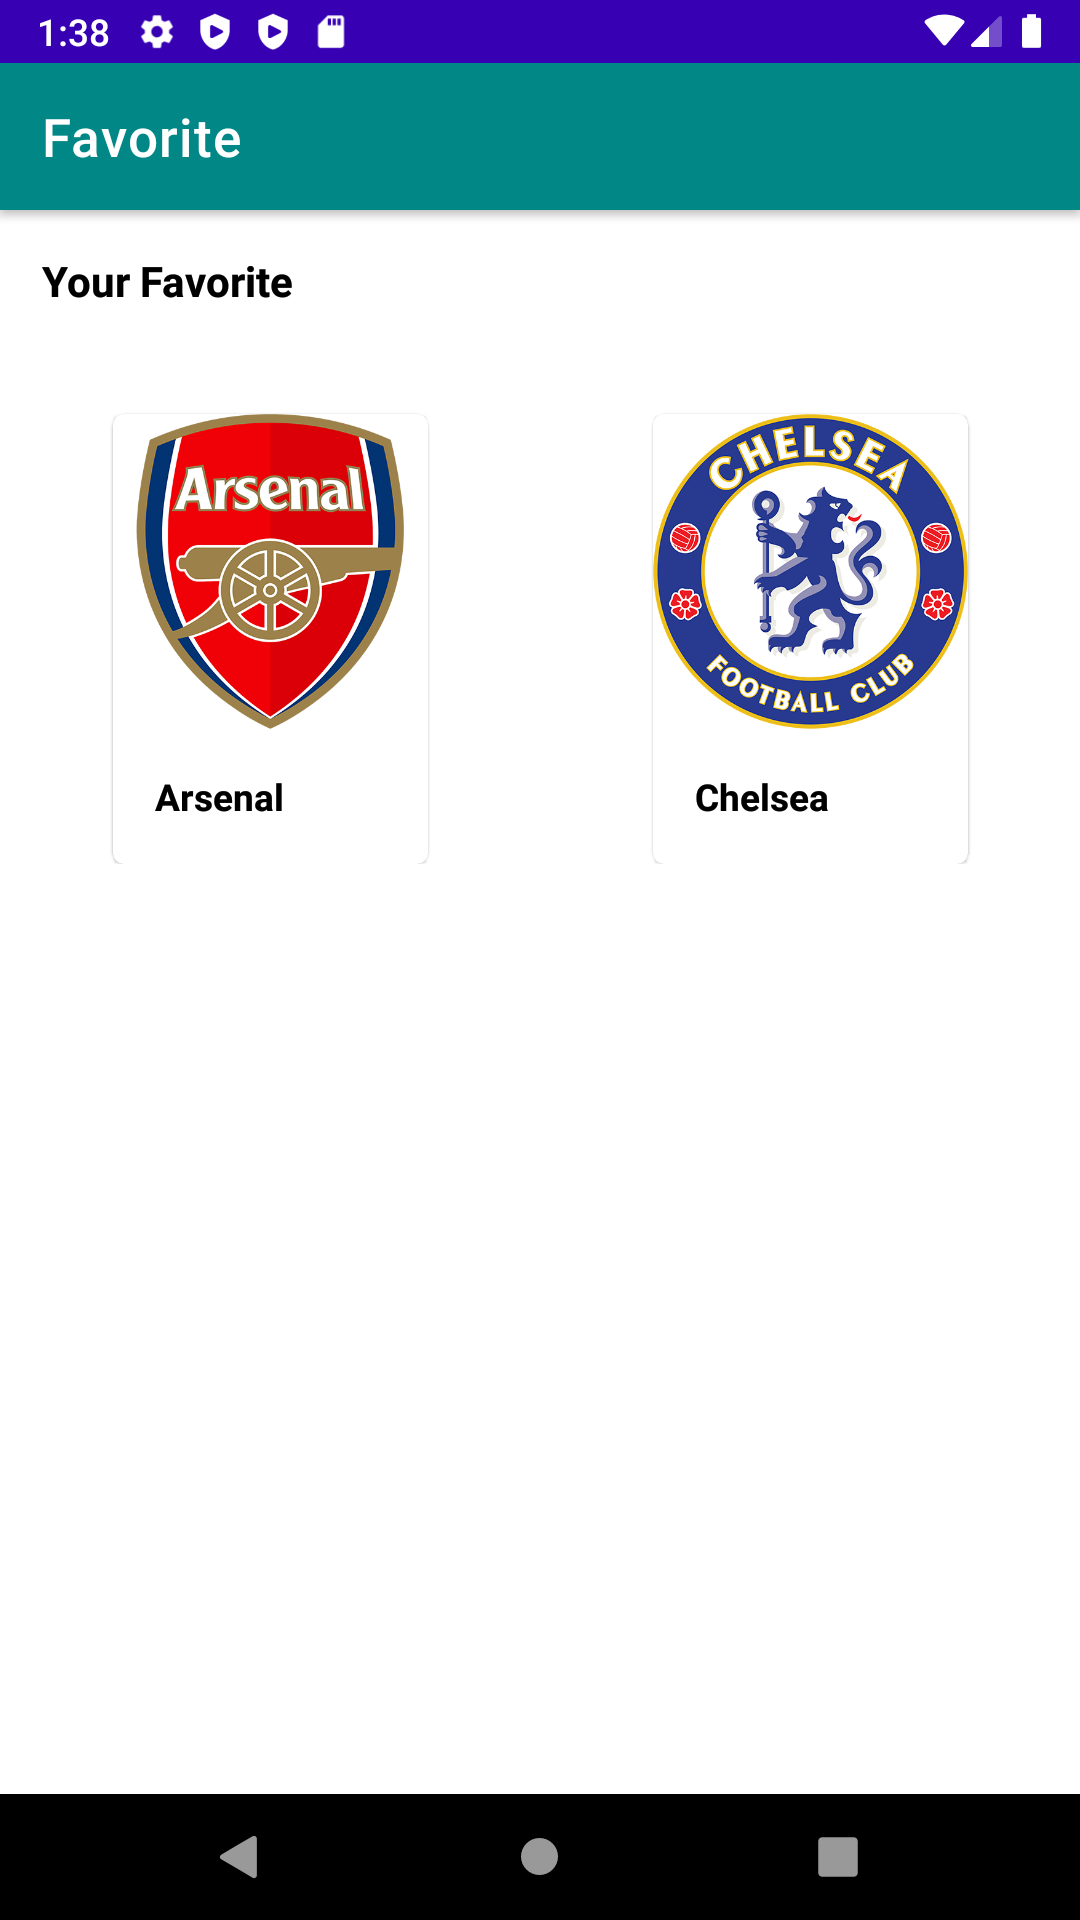
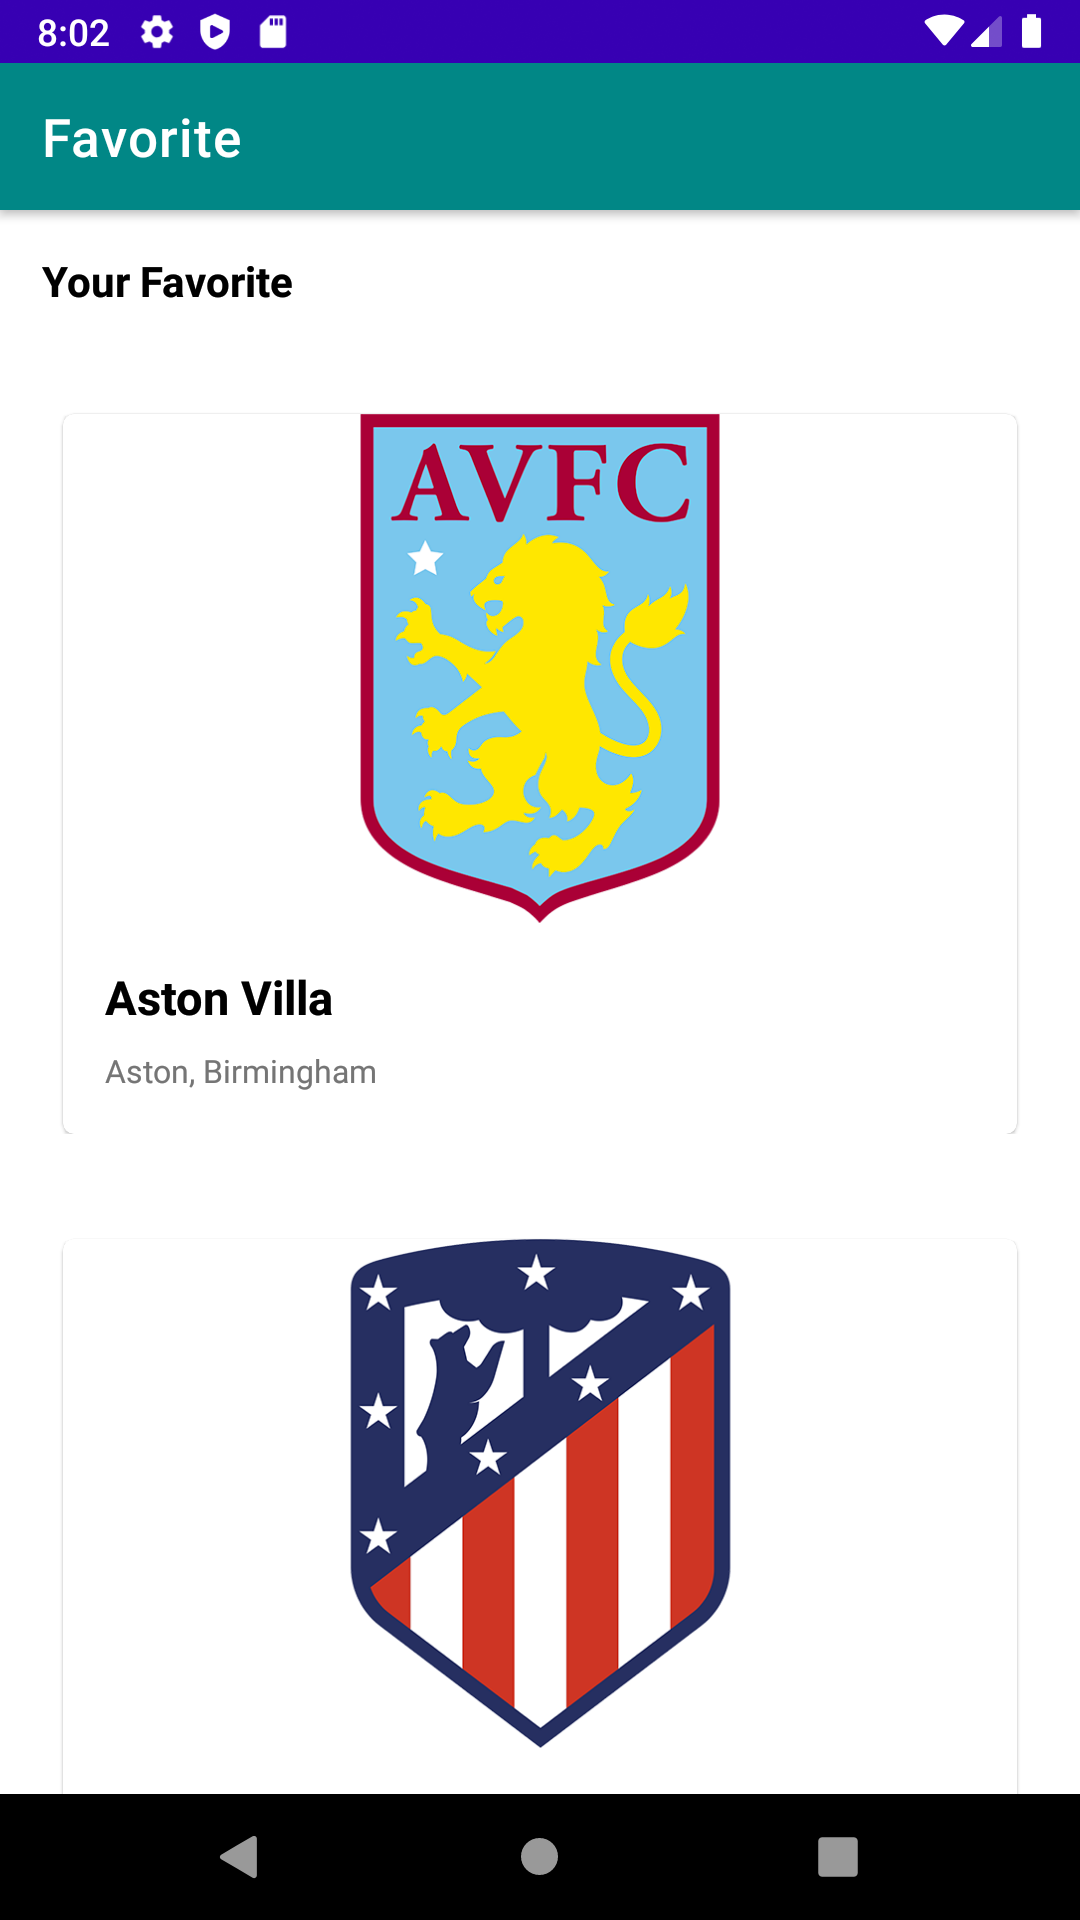
Update Application UI

diff --git a/core/src/main/java/com/example/footballapp/core/utils/DataMapping.kt b/core/src/main/java/com/example/footballapp/core/utils/DataMapping.kt
@@ -44,6 +44,7 @@ object DataMapping {
             TeamEntity(
                 teamId = it.idTeam,
                 name = it.strTeam,
+                stadiumLocation = it.strStadiumLocation,
                 description = it.strDescriptionEN,
                 formedYear = it.intFormedYear,
                 stadium = it.strStadium,
@@ -57,6 +58,7 @@ object DataMapping {
             Team(
                 teamId = it.teamId,
                 name = it.name,
+                stadiumLocation = it.stadiumLocation,
                 description = it.description,
                 formedYear = it.formedYear,
                 stadium = it.stadium,
@@ -69,6 +71,7 @@ object DataMapping {
     fun mapDomainToEntity(input: Team): TeamEntity = TeamEntity(
         teamId = input.teamId,
         name = input.name,
+        stadiumLocation = input.stadiumLocation,
         description = input.description,
         formedYear = input.formedYear,
         stadium = input.stadium,

diff --git a/favorite/src/main/java/com/example/footballapp/favorite/FavoriteActivity.kt b/favorite/src/main/java/com/example/footballapp/favorite/FavoriteActivity.kt
@@ -6,7 +6,7 @@ import androidx.appcompat.app.AppCompatActivity
 import android.os.Bundle
 import android.view.View
 import androidx.core.content.ContextCompat
-import androidx.recyclerview.widget.GridLayoutManager
+import androidx.recyclerview.widget.LinearLayoutManager
 import com.example.footballapp.core.domain.model.Team
 import com.example.footballapp.core.ui.TeamsAdapter
 import com.example.footballapp.favorite.di.favoriteModule
@@ -36,7 +36,7 @@ class FavoriteActivity : AppCompatActivity() {
             startActivity(intent)
         }, listOf(Team(teamId = "-1")))
         with(binding.rvTeamsFavorite) {
-            layoutManager = GridLayoutManager(applicationContext, 2)
+            layoutManager = LinearLayoutManager(applicationContext)
             setHasFixedSize(true)
             adapter = teamsAdapter
         }

diff --git a/app/src/main/java/com/example/footballapp/ui/home/HomeFragment.kt b/app/src/main/java/com/example/footballapp/ui/home/HomeFragment.kt
@@ -10,7 +10,7 @@ import android.widget.ArrayAdapter
 import android.widget.Toast
 import androidx.fragment.app.Fragment
 import androidx.lifecycle.Observer
-import androidx.recyclerview.widget.GridLayoutManager
+import androidx.recyclerview.widget.LinearLayoutManager
 import com.example.footballapp.R
 import com.example.footballapp.core.data.Result
 import com.example.footballapp.core.domain.model.League
@@ -50,7 +50,7 @@ class HomeFragment : Fragment() {
                 startActivity(intent)
             }, listOf(Team(teamId = "-1")))
             with(binding.rvTeams) {
-                layoutManager = GridLayoutManager(requireContext(), 2)
+                layoutManager = LinearLayoutManager(requireContext())
                 setHasFixedSize(true)
                 adapter = teamsAdapter
             }

diff --git a/core/src/main/java/com/example/footballapp/core/ui/StandingsAdapter.kt b/core/src/main/java/com/example/footballapp/core/ui/StandingsAdapter.kt
@@ -53,9 +53,9 @@ class StandingsAdapter(listStandings: List<Standings>) : RecyclerView.Adapter<St
 
                 tvTeamNameItem.text = data.strTeam
                 tvPlayedTableItem.text = data.intPlayed ?: "0"
-                tvWinTableItem.text = data.intWin ?: "0"
-                tvDrawTableItem.text = data.intDraw ?: "0"
-                tvLoseTableItem.text = data.intLoss ?: "0"
+//                tvWinTableItem.text = data.intWin ?: "0"
+//                tvDrawTableItem.text = data.intDraw ?: "0"
+//                tvLoseTableItem.text = data.intLoss ?: "0"
                 tvGoalDifferenceTableHeader.text = data.intGoalDifference ?: "0"
                 tvPointsTableItem.text = data.intPoints ?: "0"
             }

diff --git a/core/src/main/java/com/example/footballapp/core/ui/TeamsAdapter.kt b/core/src/main/java/com/example/footballapp/core/ui/TeamsAdapter.kt
@@ -46,6 +46,7 @@ class TeamsAdapter(private val onClick: (Team) -> Unit, listTeam: List<Team>) : 
                     .load(data.logo)
                     .into(teamLogo)
                 teamName.text = data.name
+                teamStadiumLocation.text = data.stadiumLocation
 
                 root.setOnClickListener {
                     onClick(data)

diff --git a/core/src/main/java/com/example/footballapp/core/data/source/remote/response/team/TeamResponse.kt b/core/src/main/java/com/example/footballapp/core/data/source/remote/response/team/TeamResponse.kt
@@ -16,6 +16,9 @@ data class TeamResponse(
     @field:SerializedName("idTeam")
     val idTeam: String,
 
+    @field:SerializedName("strStadiumLocation")
+    val strStadiumLocation: String? = null,
+
     @field:SerializedName("strDescriptionEN")
     val strDescriptionEN: String? = null,
 

diff --git a/core/src/main/java/com/example/footballapp/core/data/source/local/entity/TeamEntity.kt b/core/src/main/java/com/example/footballapp/core/data/source/local/entity/TeamEntity.kt
@@ -18,6 +18,9 @@ data class TeamEntity(
     @ColumnInfo(name = "description")
     var description: String? = null,
 
+    @ColumnInfo(name = "stadiumLocation")
+    var stadiumLocation: String? = null,
+
     @ColumnInfo(name = "formedYear")
     var formedYear: String? = null,
 

diff --git a/core/src/main/java/com/example/footballapp/core/domain/model/Team.kt b/core/src/main/java/com/example/footballapp/core/domain/model/Team.kt
@@ -8,6 +8,7 @@ data class Team(
     val teamId: String,
     val name: String? = null,
     val description: String? = null,
+    val stadiumLocation: String? = null,
     val formedYear: String? = null,
     val stadium: String? = null,
     val logo: String? = null,
